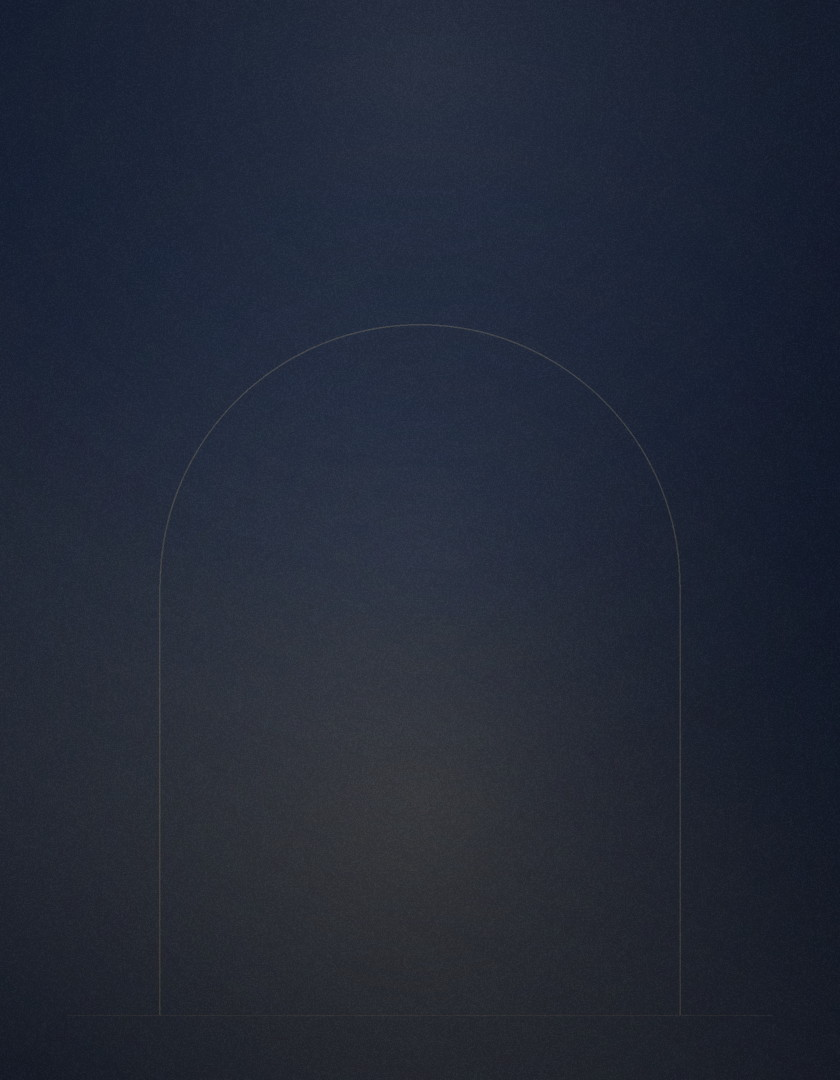
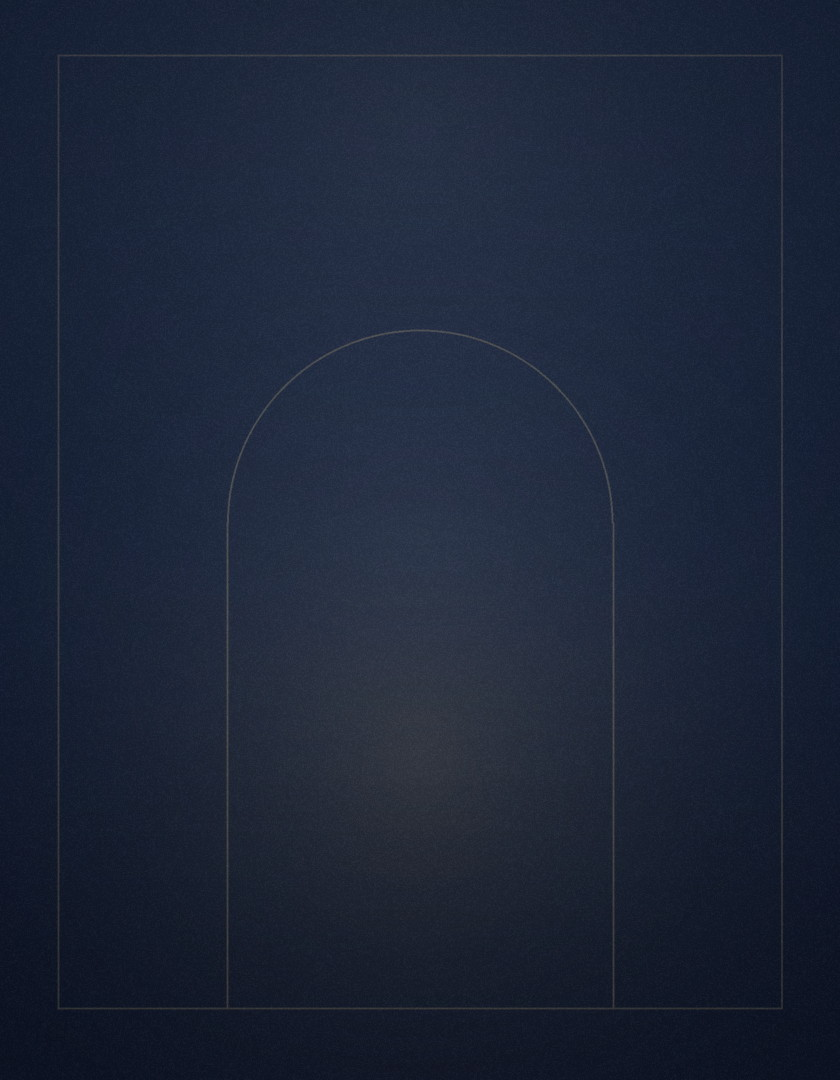
Encajar las imágenes temporales en sus marcos
Las láminas se leían desalineadas respecto al marco de oro que el CSS
dibuja por fuera: el arco iba centrado en la imagen pero la línea de
tierra quedaba a 6% del borde inferior y sobresalía por los lados del
vano, terminando en el vacío. Con la luz en diagonal, el conjunto se
ladeaba.

Se rehace la composición como una lámina montada en passe-partout:

- Filete interior con margen uniforme a los lados y arriba, y pie un 30%
  más pesado, como en el montaje de galería. Da al conjunto una geometría
  propia que dialoga con el marco exterior en vez de ignorarlo.
- El arco se apoya en la base del passe-partout, centrado y con aire sobre
  el vértice; desaparece el filete de tierra suelto.
- Degradado y luz pasan a ser simétricos respecto al eje vertical: la
  composición se lee calmada, no ladeada.
- El grosor del filete se calcula sobre el ancho de origen, para que no se
  evapore cuando el navegador reduce la imagen.
- El margen lateral se dibuja compensando lo que `object-fit: cover`
  recorta según la proporción del marco, así el aire queda idéntico a
  izquierda, derecha y arriba una vez montada.

Verificado con Playwright en las 8 páginas a 1440x900 y 390x844: sin
errores de consola ni peticiones fallidas, y menú móvil intacto.

Claude-Session: https://claude.ai/code/session_01A6Hjv6buhzEnRfpKbvocem

diff --git a/tools/gen-placeholders.py b/tools/gen-placeholders.py
@@ -63,6 +63,14 @@ SANS_CANDIDATES = [
 ]
 
 
+# ------------------------------------------------- proporciones de la lámina
+FRAME_RATIO = 3.4 / 4.4   # proporción del marco en styles.css (.ph)
+MAT_INSET   = 0.065   # margen del passe-partout (laterales y superior), del ancho
+MAT_FOOT    = 1.30    # el margen inferior pesa más, como en el montaje de galería
+ARCH_WIDTH  = 0.46    # luz del vano, en fracción del ancho
+ARCH_HEIGHT = 0.70    # alto del arco, en fracción del alto útil del passe-partout
+
+
 # ------------------------------------------------------------ utilidades
 
 def lerp(a, b, t):
@@ -253,60 +261,69 @@ def save(img, name, quality=90):
 
 # ------------------------------------------------------- familia vertical
 
-def vertical(size, stops, light, seed, shaft=None, arc_alpha=62, rule_alpha=34,
-             vig=0.30, grain_amount=0.055, skip_grain=False):
-    """Retrato abstracto: muro en degradado, luz diagonal y un arco tenue.
+def vertical(size, stops, light, seed, pool=None, mat_alpha=64, arc_alpha=74,
+             vig=0.30, grain_amount=0.055):
+    """Retrato abstracto: lámina montada en passe-partout.
 
-    Los tres verticales comparten esta construcción —muro, luz, arco, filete—
-    y solo cambian la clave tonal y la temperatura de la luz. La geometría se
-    mantiene centrada y lejos de los bordes para que `object-fit: cover` pueda
-    recortar sin romper la composición.
+    La composición está construida hacia adentro desde el borde de la imagen,
+    no hacia el centro: un filete interior (el passe-partout) deja un margen
+    uniforme por los cuatro lados y el arco se apoya en su base, centrado y
+    con aire suficiente sobre el vértice. Así la imagen dialoga con el marco
+    de oro que el CSS dibuja por fuera, en vez de ignorarlo.
+
+    Todo es simétrico respecto al eje vertical —degradado, luz y geometría—
+    para que el conjunto se lea calmado. Los tres verticales comparten esta
+    construcción y solo cambian la clave tonal y la temperatura de la luz.
     """
     w, h = size
-    img = gradient(size, stops, angle_deg=58)
+    img = gradient(size, stops, angle_deg=90)
 
-    # Franja de luz cayendo en diagonal sobre el muro.
-    if shaft:
-        scolor, scenter, swidth, sstrength = shaft
-        img = sheen(img, scolor, band_mask(size, 118, scenter, swidth), sstrength)
-
-    # Foco suave, la fuente de esa luz.
     lcolor, lcx, lcy, lrad, lstr = light
     img = glow(img, lcolor, lcx, lcy, lrad, lstr, falloff=1.9)
+    if pool:                       # segunda luz, cálida y baja
+        pcolor, pcx, pcy, prad, pstr = pool
+        img = glow(img, pcolor, pcx, pcy, prad, pstr, falloff=2.0)
+
+    m = w * MAT_INSET              # margen lateral y superior del passe-partout
+    base = h - m * MAT_FOOT        # línea de apoyo del arco: el pie pesa más
+    # Los marcos recortan por los lados lo que sobre de FRAME_RATIO. Se dibuja
+    # el margen lateral ya compensado para que, una vez recortada, la lámina
+    # tenga el mismo aire a izquierda, derecha y arriba.
+    crop = max(0.0, (w - h * FRAME_RATIO) / 2)
+    m_side = m + crop
+    aw = w * ARCH_WIDTH            # luz del vano
+    r = aw / 2
+    arc_h = (h - 2 * m) * ARCH_HEIGHT
+    left, right = (w - aw) / 2, (w + aw) / 2
+    # Grosor pensado para el tamaño al que se muestra cada imagen: un filete
+    # de 1 px en el original se evapora cuando el navegador la reduce.
+    lw = w / 430
 
     def geometry(d, s):
-        # Arco de medio punto: la única figura, apenas insinuada.
-        aw = w * 0.62          # ancho del vano
-        left = (w - aw) / 2
-        top = h * 0.30         # arranque de la curva
-        line_w = max(1, int(1.6 * s))
+        def px(v):
+            return int(round(v * s))
+        line = max(1, int(round(lw * s)))
+        # Passe-partout.
+        d.rectangle([px(m_side), px(m), px(w - m_side), px(base)],
+                    outline=GOLD_PALE + (mat_alpha,), width=line)
+        # Arco de medio punto centrado y apoyado en la base del passe-partout.
         col = GOLD_PALE + (arc_alpha,)
-        d.arc([left * s, top * s, (left + aw) * s, (top + aw) * s],
-              start=180, end=360, fill=col, width=line_w)
-        # Jambas hasta el pie del encuadre.
-        y0 = int((top + aw / 2) * s)
-        d.line([(left * s, y0), (left * s, int(h * 0.94 * s))], fill=col, width=line_w)
-        d.line([((left + aw) * s, y0), ((left + aw) * s, int(h * 0.94 * s))],
-               fill=col, width=line_w)
-        # Filete horizontal a la altura de la línea de tierra.
-        y = int(h * 0.94 * s)
-        d.line([(int(w * 0.08 * s), y), (int(w * 0.92 * s), y)],
-               fill=GOLD_PALE + (rule_alpha,), width=max(1, int(1.2 * s)))
+        d.arc([px(left), px(base - arc_h), px(right), px(base - arc_h + aw)],
+              start=180, end=360, fill=col, width=line)
+        d.line([(px(left), px(base - arc_h + r)), (px(left), px(base))], fill=col, width=line)
+        d.line([(px(right), px(base - arc_h + r)), (px(right), px(base))], fill=col, width=line)
 
     img = Image.alpha_composite(img.convert("RGBA"), overlay(size, geometry)).convert("RGB")
     img = vignette(img, strength=vig, radius=1.05)
-    if skip_grain:   # el grano se aplica al final, tras las luces añadidas
-        return img
     return grain(img, amount=grain_amount, seed=seed)
 
 
 def retrato_azul():
-    """Clave alta de la familia: azul institucional luminoso."""
+    """Clave alta de la familia: azul institucional, luz cenital."""
     return vertical(
         (680, 880),
         stops=[(0.0, INK_LIGHT), (0.55, INK), (1.0, INK_DEEP)],
-        light=(PAPER_2, 0.70, 0.18, 0.95, 0.30),
-        shaft=(PAPER_2, 0.42, 0.20, 0.16),
+        light=(PAPER_2, 0.50, 0.20, 0.92, 0.26),
         seed=1001,
     )
 
@@ -316,27 +333,22 @@ def retrato_negro():
     return vertical(
         (680, 880),
         stops=[(0.0, SLATE), (0.5, (0x1a, 0x1f, 0x29)), (1.0, NEAR_BLACK)],
-        light=(GOLD_PALE, 0.72, 0.16, 0.82, 0.15),
-        shaft=(GOLD_PALE, 0.40, 0.18, 0.09),
+        light=(GOLD_PALE, 0.50, 0.18, 0.85, 0.13),
         seed=2002,
-        arc_alpha=54, rule_alpha=28, vig=0.34, grain_amount=0.06,
+        mat_alpha=56, arc_alpha=64, vig=0.34, grain_amount=0.06,
     )
 
 
 def escenario():
-    """Clave cálida: el foco de sala abriendo un halo en el fondo del escenario."""
-    img = vertical(
+    """Clave cálida: el foco de sala abriendo un halo al pie del vano."""
+    return vertical(
         (840, 1080),
         stops=[(0.0, INK), (0.5, (0x1a, 0x27, 0x42)), (1.0, INK_DEEP)],
-        light=(GOLD_PALE, 0.50, 0.74, 0.90, 0.20),
-        shaft=(GOLD_PALE, 0.46, 0.24, 0.11),
+        light=(PAPER_2, 0.50, 0.12, 0.95, 0.11),
+        pool=(GOLD_PALE, 0.50, 0.70, 0.66, 0.20),
         seed=3003,
-        arc_alpha=58, rule_alpha=30, vig=0.42,
-        skip_grain=True,
+        mat_alpha=60, arc_alpha=70, vig=0.40,
     )
-    # Halo alto y frío, muy abierto: profundidad de caja escénica.
-    img = glow(img, PAPER_2, 0.50, 0.06, 1.05, 0.10, falloff=2.2)
-    return grain(img, amount=0.055, seed=3003)
 
 
 # -------------------------------------------------------------------- OG
